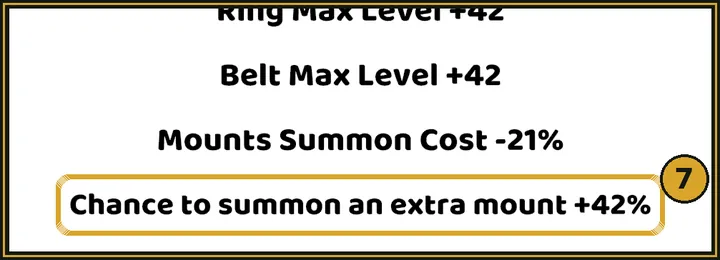
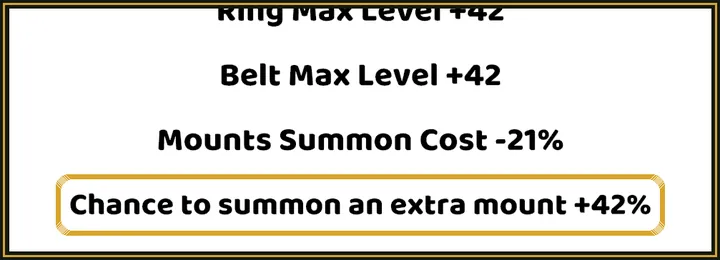
Picture guide page and automatic checks (#4)
* Add a public picture guide page and automatic checks

- /guide shows where each number is in the game, in the reader's chosen
  language; ?lang=en|zh-Hant|zh-Hans|ko opens it in that language, which
  the Discord buttons use
- The in-app Tracker guide links to it
- Screenshots on the site no longer carry numbers, so they match the guide
- GitHub now runs the type check, unit tests and translation check on
  every change

Claude-Session: https://claude.ai/code/session_01XDzKqMj9QgpcA1NzpRpGRh

* Update remaining tests for the 30-minute membership re-check

Claude-Session: https://claude.ai/code/session_01XDzKqMj9QgpcA1NzpRpGRh

---------

Changed region(s): [[0.9167, 0.5846, 1.0, 0.8]]

diff --git a/src/components/tracker-guide.tsx b/src/components/tracker-guide.tsx
@@ -1,0 +1,122 @@
+"use client";
+
+import { useEffect } from "react";
+import Link from "next/link";
+import { useSearchParams } from "next/navigation";
+import { ArrowRight, Check, LogIn, Save } from "lucide-react";
+import { ClanBrand } from "./clan-brand";
+import { LanguagePicker } from "./language-picker";
+import { FIELD_PICTURES, type GuidedField } from "./field-guide";
+import { LANGUAGES, LanguageProvider, useLanguage, type Language } from "@/lib/i18n";
+
+/** The 13 boxes on My Resources, grouped by the game screen they come from. */
+const SECTIONS: { screen: string; fields: { field: GuidedField; label: string; where: string }[] }[] = [
+  {
+    screen: "Skills screen",
+    fields: [
+      { field: "skillTickets", label: "Skill Tickets", where: "Skills screen → the green ticket number at the top left." },
+      { field: "fiveSkills", label: "Skill summon cost (×5)", where: "Skills screen → the number on the blue “Summon x5” button." },
+      { field: "skillLevel", label: "Skill level", where: "Skills screen → tap ⓘ next to Summon. Use the Level number at the top." },
+    ],
+  },
+  {
+    screen: "Mounts screen",
+    fields: [
+      { field: "mountKeys", label: "Mount Keys", where: "Mounts screen → the key number at the top." },
+      { field: "mount", label: "Mount summon cost (×1)", where: "Mounts screen → the number on the blue “Summon x1” button." },
+      { field: "mountLevel", label: "Mount level", where: "Mounts screen → tap ⓘ next to Summon. Use the Level number at the top." },
+      { field: "mountsToMerge", label: "Mounts to Merge", where: "Tap a mount → Upgrade → select all spare mounts → use the “Selected” number." },
+    ],
+  },
+  {
+    screen: "Pets screen",
+    fields: [
+      { field: "eggshellsTotal", label: "Eggshells total", where: "Pets screen → the eggshell number at the top left." },
+      { field: "eggLevel", label: "Egg/pet level", where: "Pets screen → tap ⓘ next to Summon. Use the Level number at the top." },
+      { field: "eggsPetsTotal", label: "Total eggs/pets", where: "Tap a pet → Upgrade → select all spare eggs/pets → use the “Selected” number." },
+    ],
+  },
+  {
+    screen: "Tech Tree",
+    fields: [
+      { field: "extraMountChancePercent", label: "Extra mount chance %", where: "Tech Tree → tap ⓘ to open Total Bonuses → “Chance to summon an extra mount”." },
+      { field: "extraPetSummonPercent", label: "Extra pet summon %", where: "Tech Tree → tap ⓘ to open Total Bonuses → “Chance to summon an extra egg”." },
+    ],
+  },
+  {
+    screen: "Forge screen",
+    fields: [
+      { field: "hammers", label: "Hammers", where: "Forge screen → the hammer number on the anvil." },
+    ],
+  },
+];
+
+function GuideContent() {
+  const { t, setLanguage } = useLanguage();
+  const params = useSearchParams();
+  const requested = params.get("lang");
+  // Discord buttons open this page with ?lang=ko etc.; that choice is remembered.
+  useEffect(() => {
+    if (LANGUAGES.some(({ code }) => code === requested)) setLanguage(requested as Language);
+  }, [requested, setLanguage]);
+  let number = 0;
+  return (
+    <main className="guide-page">
+      <header className="guide-header">
+        <Link href="/" className="guide-brand">
+          <ClanBrand decorative size={34} />
+          <strong>TURMOIL</strong>
+        </Link>
+        <LanguagePicker />
+      </header>
+      <section className="guide-intro">
+        <span className="eyebrow">{t("THE TURMOIL RESOURCE TRACKER")}</span>
+        <h1>{t("Tracker guide")}</h1>
+        <p>{t("Update your resources once a week. It takes about 2 minutes.")}</p>
+        <ol className="guide-steps">
+          <li><LogIn size={18} aria-hidden="true" /><span>{t("Open the tracker and sign in with Discord. On a phone, tap ⋯ and choose “Open in browser” so you stay signed in.")}</span></li>
+          <li><Check size={18} aria-hidden="true" /><span>{t("Open My Resources and copy each number from the game. The pictures below show where each one is.")}</span></li>
+          <li><Save size={18} aria-hidden="true" /><span>{t("Press Save. A complete save earns 20 Clan Points each week. Enter 0 if you have none.")}</span></li>
+        </ol>
+        <Link href="/resources" className="button primary guide-open">
+          {t("Open the tracker")}
+          <ArrowRight size={16} aria-hidden="true" />
+        </Link>
+      </section>
+      {SECTIONS.map(({ screen, fields }) => (
+        <section className="guide-section" key={screen}>
+          <h2>{t(screen)}</h2>
+          <div className="guide-cards">
+            {fields.map(({ field, label, where }) => {
+              number += 1;
+              return (
+                <article className="guide-card" key={field}>
+                  <h3><span className="guide-number">{number}</span>{t(label)}</h3>
+                  <p>{t(where)}</p>
+                  {/* eslint-disable-next-line @next/next/no-img-element -- small static screenshots */}
+                  <img src={FIELD_PICTURES[field]} alt={t(where)} loading="lazy" decoding="async" />
+                </article>
+              );
+            })}
+          </div>
+        </section>
+      ))}
+      <footer className="guide-footer">
+        <p>{t("Stuck? Ask in clan-chat on Discord.")}</p>
+        <Link href="/resources" className="button primary">
+          {t("Open the tracker")}
+          <ArrowRight size={16} aria-hidden="true" />
+        </Link>
+      </footer>
+    </main>
+  );
+}
+
+/** Public picture guide (no sign-in needed), shown in the reader's chosen language. */
+export function TrackerGuide() {
+  return (
+    <LanguageProvider>
+      <GuideContent />
+    </LanguageProvider>
+  );
+}

diff --git a/src/lib/i18n/messages.ts b/src/lib/i18n/messages.ts
@@ -391,4 +391,16 @@ export const MESSAGES: Record<string, { "zh-Hant": string; "zh-Hans": string; ko
   "{points} points per existing mount merge.": { "zh-Hant": "每次合成現有坐騎 {points} 分。", "zh-Hans": "每次合成现有坐骑 {points} 分。", ko: "보유 탈것 합성 1회당 {points}점." },
   "{points} points per hammer.": { "zh-Hant": "每把錘子 {points} 分。", "zh-Hans": "每把锤子 {points} 分。", ko: "망치 1개당 {points}점." },
   "{points} points per skill summon.": { "zh-Hant": "每次技能召喚 {points} 分。", "zh-Hans": "每次技能召唤 {points} 分。", ko: "스킬 소환 1회당 {points}점." },
+  "Skills screen": { "zh-Hant": "技能畫面", "zh-Hans": "技能画面", ko: "스킬 화면" },
+  "Mounts screen": { "zh-Hant": "坐騎畫面", "zh-Hans": "坐骑画面", ko: "탈것 화면" },
+  "Pets screen": { "zh-Hant": "寵物畫面", "zh-Hans": "宠物画面", ko: "펫 화면" },
+  "Tech Tree": { "zh-Hant": "科技樹", "zh-Hans": "科技树", ko: "테크 트리" },
+  "Forge screen": { "zh-Hant": "鍛造畫面", "zh-Hans": "锻造画面", ko: "대장간 화면" },
+  "Update your resources once a week. It takes about 2 minutes.": { "zh-Hant": "每週更新一次資源，大約 2 分鐘就好。", "zh-Hans": "每周更新一次资源，大约 2 分钟就好。", ko: "일주일에 한 번 자원을 업데이트하세요. 2분 정도면 돼요." },
+  "Open the tracker and sign in with Discord. On a phone, tap ⋯ and choose “Open in browser” so you stay signed in.": { "zh-Hant": "打開追蹤器並用 Discord 登入。用手機的話，點 ⋯ 選「用瀏覽器開啟」，就能保持登入。", "zh-Hans": "打开追踪器并用 Discord 登录。用手机的话，点 ⋯ 选“在浏览器中打开”，就能保持登录。", ko: "트래커를 열고 Discord로 로그인하세요. 휴대폰이라면 ⋯ 를 누르고 “브라우저에서 열기”를 선택해야 로그인이 유지돼요." },
+  "Open My Resources and copy each number from the game. The pictures below show where each one is.": { "zh-Hant": "打開「我的資源」，照著遊戲填好每個數字。下面的圖片會告訴你每個數字在哪裡。", "zh-Hans": "打开“我的资源”，照着游戏填好每个数字。下面的图片会告诉你每个数字在哪里。", ko: "내 자원을 열고 게임 속 숫자를 입력하세요. 아래 사진에서 각 숫자의 위치를 볼 수 있어요." },
+  "Press Save. A complete save earns 20 Clan Points each week. Enter 0 if you have none.": { "zh-Hant": "按「儲存」。每週完整儲存一次可得 20 公會點數。沒有的請填 0。", "zh-Hans": "按“保存”。每周完整保存一次可得 20 公会点数。没有的请填 0。", ko: "저장을 누르세요. 모두 채워 저장하면 매주 클랜 포인트 20점을 받아요. 없으면 0을 입력하세요." },
+  "Open the tracker": { "zh-Hant": "打開追蹤器", "zh-Hans": "打开追踪器", ko: "트래커 열기" },
+  "Stuck? Ask in clan-chat on Discord.": { "zh-Hant": "有問題？到 Discord 的 clan-chat 問。", "zh-Hans": "有问题？到 Discord 的 clan-chat 问。", ko: "막히면 Discord의 clan-chat에 물어보세요." },
+  "See the picture guide": { "zh-Hant": "查看圖片教學", "zh-Hans": "查看图片教程", ko: "사진 안내 보기" },
 };

diff --git a/src/app/member-help.css b/src/app/member-help.css
@@ -167,3 +167,135 @@
     font-size: 12.5px;
   }
 }
+
+/* Public picture guide (/guide) */
+.guide-page {
+  min-height: 100vh;
+  background: radial-gradient(ellipse at 50% 0%, #2d93381a, transparent 55%), var(--bg);
+  color: var(--text);
+  padding: 22px 16px 48px;
+}
+.guide-header,
+.guide-intro,
+.guide-section,
+.guide-footer {
+  width: min(100%, 980px);
+  margin: 0 auto;
+}
+.guide-header {
+  display: flex;
+  justify-content: space-between;
+  align-items: center;
+  gap: 12px;
+}
+.guide-brand {
+  display: inline-flex;
+  align-items: center;
+  gap: 10px;
+  color: var(--gold);
+  text-decoration: none;
+  letter-spacing: 3px;
+}
+.guide-intro {
+  margin-top: 28px;
+  padding: 24px;
+  border: 1px solid #b4974955;
+  border-radius: 12px;
+  background: #0c1510;
+}
+.guide-intro h1 {
+  margin: 6px 0 8px;
+  font-size: clamp(26px, 5vw, 36px);
+}
+.guide-intro > p {
+  color: var(--muted);
+  margin: 0 0 16px;
+}
+.guide-steps {
+  list-style: none;
+  padding: 0;
+  margin: 0 0 18px;
+  display: grid;
+  gap: 12px;
+}
+.guide-steps li {
+  display: flex;
+  gap: 10px;
+  align-items: flex-start;
+  line-height: 1.55;
+}
+.guide-steps svg {
+  color: var(--gold);
+  flex: none;
+  margin-top: 3px;
+}
+.guide-open {
+  display: inline-flex;
+}
+.guide-section {
+  margin-top: 30px;
+}
+.guide-section h2 {
+  font-size: 18px;
+  color: var(--gold);
+  margin: 0 0 12px;
+}
+.guide-cards {
+  display: grid;
+  grid-template-columns: repeat(2, minmax(0, 1fr));
+  gap: 14px;
+}
+.guide-card {
+  padding: 14px;
+  border: 1px solid var(--border);
+  border-radius: 10px;
+  background: #0a120d;
+  min-width: 0;
+}
+.guide-card h3 {
+  display: flex;
+  align-items: center;
+  gap: 9px;
+  margin: 0 0 6px;
+  font-size: 15px;
+}
+.guide-number {
+  display: inline-grid;
+  place-items: center;
+  width: 26px;
+  height: 26px;
+  border-radius: 50%;
+  background: var(--gold);
+  color: #0c1510;
+  font-size: 13px;
+  font-weight: 800;
+  flex: none;
+}
+.guide-card p {
+  margin: 0 0 10px;
+  color: #dec486;
+  font-size: 13px;
+  line-height: 1.5;
+}
+.guide-card img {
+  display: block;
+  width: 100%;
+  height: auto;
+  border-radius: 6px;
+}
+.guide-footer {
+  margin-top: 34px;
+  text-align: center;
+  color: var(--muted);
+}
+.guide-modal-link {
+  margin-bottom: 10px;
+}
+@media (max-width: 700px) {
+  .guide-cards {
+    grid-template-columns: 1fr;
+  }
+  .guide-intro {
+    padding: 18px;
+  }
+}

diff --git a/tests/postgres-integration.test.ts b/tests/postgres-integration.test.ts
@@ -160,7 +160,7 @@ test("PostgreSQL preserves legacy data, live banks, snapshots, planning, rewards
     assert.equal((await authenticatedMember(sessionToken, { db }))?.id, memberId);
     session = (await db.query("SELECT * FROM auth_sessions WHERE token_hash=$1", [tokenHash]))[0];
     assert.ok(new Date(String(session.expires_at)).getTime() > Date.now() + 179 * 86_400_000);
-    await db.query(`UPDATE auth_sessions SET membership_checked_at=NOW()-INTERVAL '6 minutes',
+    await db.query(`UPDATE auth_sessions SET membership_checked_at=NOW()-INTERVAL '25 hours',
       oauth_expires_at=NOW()-INTERVAL '1 minute' WHERE token_hash=$1`, [tokenHash]);
     let refreshes = 0;
     let checks = 0;

diff --git a/src/components/tracker.tsx b/src/components/tracker.tsx
@@ -816,6 +816,10 @@ function TrackerApp({ view }: { view: View }) {
                 <p>{t("Every Monday at 00:00 UTC the clan totals are saved. You can view past weeks, but not change them.")}</p>
               </div>
             </div>
+            <Link className="button secondary guide-modal-link" href="/guide">
+              {t("See the picture guide")}
+              <ArrowRight size={16} />
+            </Link>
             <button className="button primary" onClick={() => setHelp(false)}>
               {t("Got it")}
               <Check size={16} />

diff --git a/tests/discord-profile.test.ts b/tests/discord-profile.test.ts
@@ -47,7 +47,7 @@ async function sessionFor(db: Database, id = OWNER_ID) {
   return { member, token };
 }
 async function recheck(db: Database, token: string, body: unknown) {
-  await db.query("UPDATE auth_sessions SET membership_checked_at = NOW() - INTERVAL '6 minutes' WHERE token_hash = $1", [hashToken(token)]);
+  await db.query("UPDATE auth_sessions SET membership_checked_at = NOW() - INTERVAL '25 hours' WHERE token_hash = $1", [hashToken(token)]);
   return authenticatedMember(token, { db, fetcher: fetchMember(body) });
 }
 

diff --git a/src/app/guide/page.tsx b/src/app/guide/page.tsx
@@ -1,0 +1,16 @@
+import { Suspense } from "react";
+import type { Metadata } from "next";
+import { TrackerGuide } from "@/components/tracker-guide";
+
+export const metadata: Metadata = {
+  title: "Tracker Guide · Turmoil",
+  description: "Where to find each number in Forge Master, in English, 繁體中文, 简体中文 and 한국어.",
+};
+
+export default function Page() {
+  return (
+    <Suspense>
+      <TrackerGuide />
+    </Suspense>
+  );
+}
